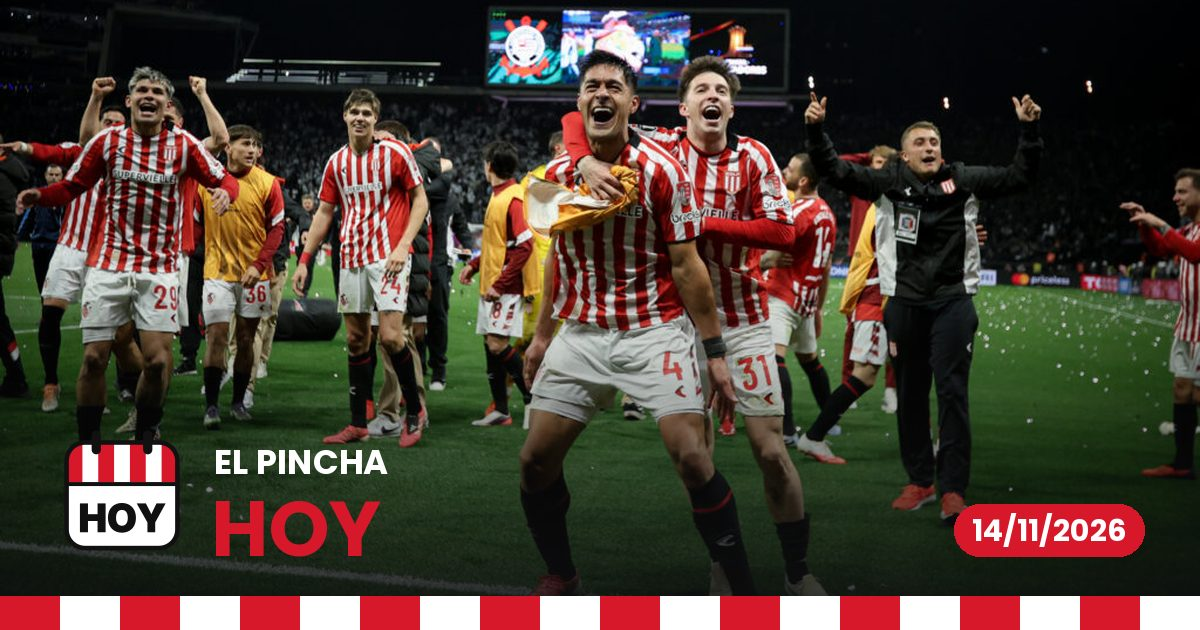
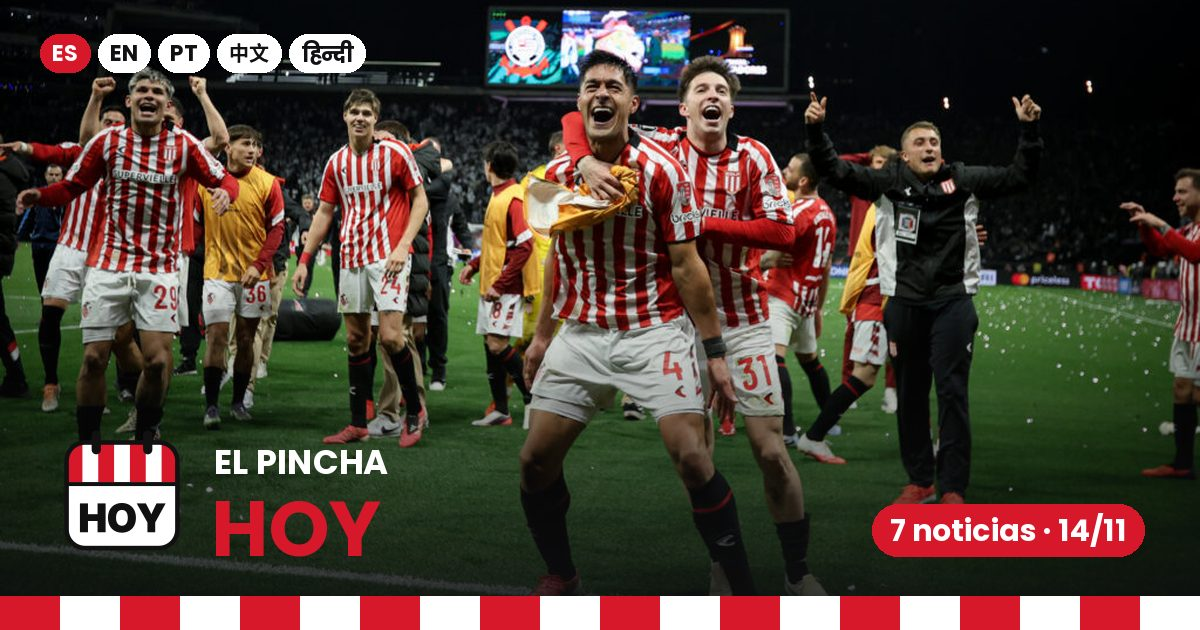
Imagen para compartir: 7 noticias y 5 idiomas (#23)
Claude-Session: https://claude.ai/code/session_01S6FXoysqVYbyejxnLMy1M2

Changed region(s): [[0.0308, 0.0302, 0.3083, 0.1206], [0.7092, 0.7841, 0.9558, 0.9048]]

diff --git a/scripts/imagenes.py b/scripts/imagenes.py
@@ -47,6 +47,23 @@ def fuente(tam):
     return ImageFont.load_default(tam)
 
 
+CJK = '/usr/share/fonts/opentype/noto/NotoSansCJK-Bold.ttc'
+OG_VERSION = 'v2'  # subir si cambia el diseño: se regeneran todas
+
+
+def chips(d, x, y, tam=30, fondo=(255,255,255), texto=(17,17,19), primero=(215,24,42), alto=None, gap=12):
+    """ES · EN · PT · 中文 · हिन्दी como fichas. Devuelve el ancho total."""
+    alto = alto or int(tam*1.75); x0=x
+    for i,(t,f) in enumerate([('ES',FUENTES[0]),('EN',FUENTES[0]),('PT',FUENTES[0]),('中文',CJK),('हिन्दी',FUENTES[0])]):
+        font = ImageFont.truetype(f, int(tam*0.95), index=2) if f == CJK and Path(CJK).exists() else fuente(tam)
+        w = d.textlength(t, font=font); pw = w + tam*1.1
+        d.rounded_rectangle([x, y, x+pw, y+alto], radius=alto//2, fill=primero if i==0 else fondo)
+        bb = d.textbbox((0,0), t, font=font)
+        d.text((x+(pw-w)/2, y+(alto-(bb[3]-bb[1]))/2-bb[1]), t, font=font, fill=(255,255,255) if i==0 else texto)
+        x += pw + gap
+    return x - gap - x0
+
+
 def imagen_og(img, fecha, destino):
     """Imagen para compartir: foto a sangre, degradé, marca y fecha, franja a bastones. Sin texto en un idioma:
     sirve igual para las 5 versiones (el titular lo pone cada red debajo, desde og:title)."""
@@ -71,10 +88,12 @@ def imagen_og(img, fecha, destino):
     d.text((x - 3, base - 82), 'HOY', font=fuente(78), fill=(215, 24, 42))
     a, m, dd = fecha.split('-')
     f = fuente(30)
-    txt = f'{dd}/{m}/{a}'
+    txt = f'7 noticias · {dd}/{m}'
     w = d.textlength(txt, font=f)
     d.rounded_rectangle([W - 56 - w - 36, base - 52, W - 56, base], radius=26, fill=(215, 24, 42))
     d.text((W - 56 - w - 18, base - 47), txt, font=f, fill=(255, 255, 255))
+    # Los 5 idiomas, arriba a la izquierda (fichas).
+    chips(d, 40, 34, tam=22, fondo=(255, 255, 255), gap=8)
     foto.save(destino, quality=82, optimize=True, progressive=True)
 
 
@@ -129,7 +148,7 @@ def main():
     reg_path = OG / 'indice.json'
     reg = json.loads(reg_path.read_text()) if reg_path.exists() else {}
     for fecha, fid in sorted(fotos_dia.items()):
-        clave = f'{fid}|{json.dumps(por_id[fid].get("foco"))}'
+        clave = f'{fid}|{json.dumps(por_id[fid].get("foco"))}|{OG_VERSION}'
         if reg.get(fecha) == clave and (OG / f'{fecha}.jpg').exists():
             continue
         imagen_og(por_id[fid], fecha, OG / f'{fecha}.jpg')
